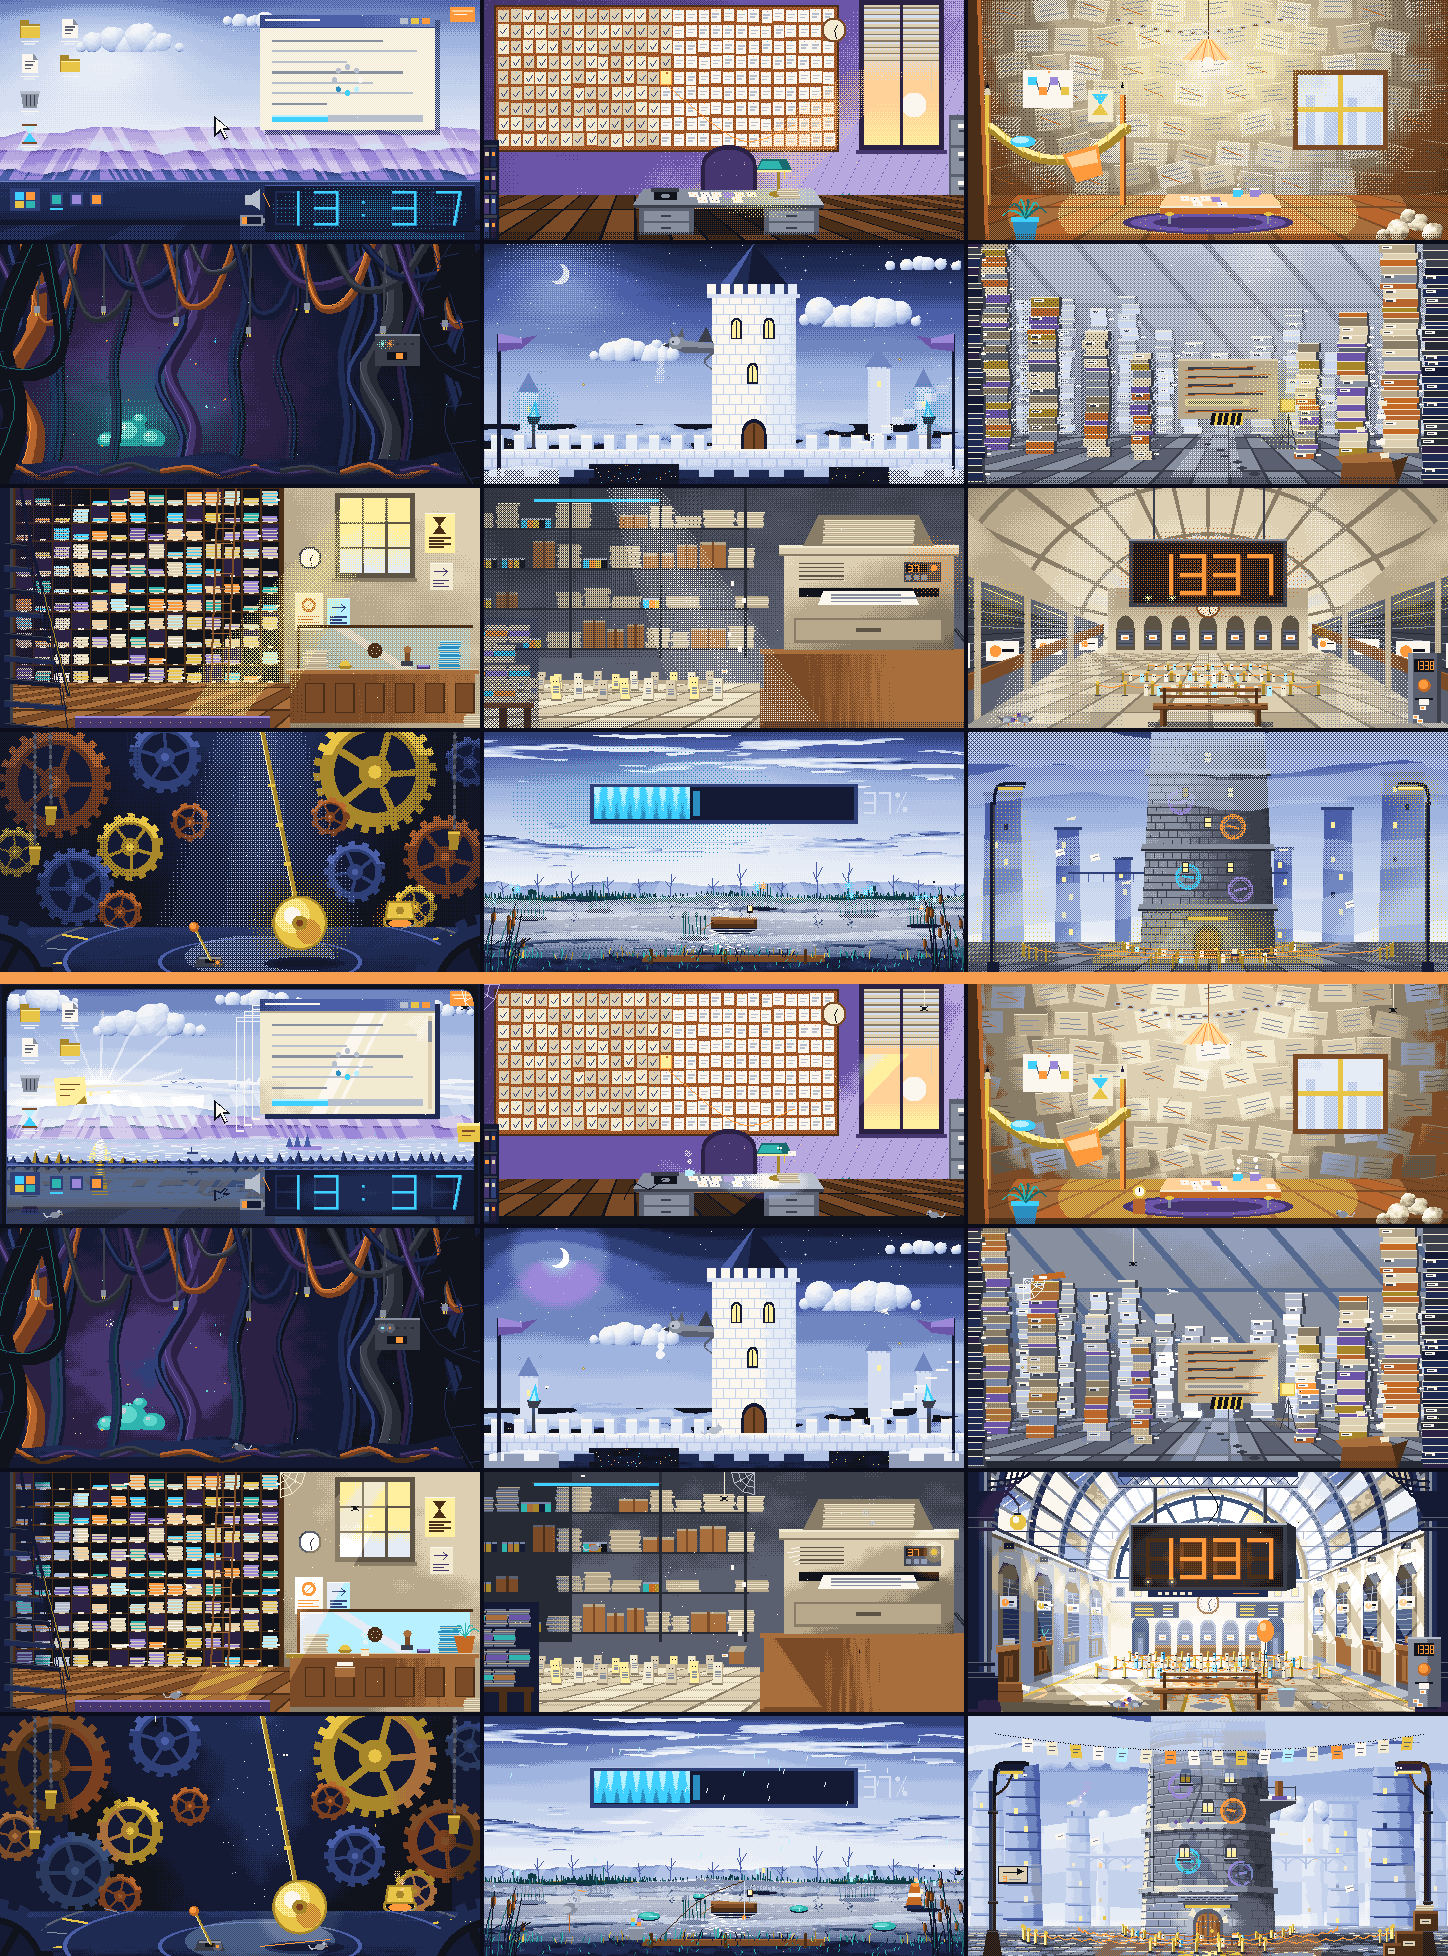
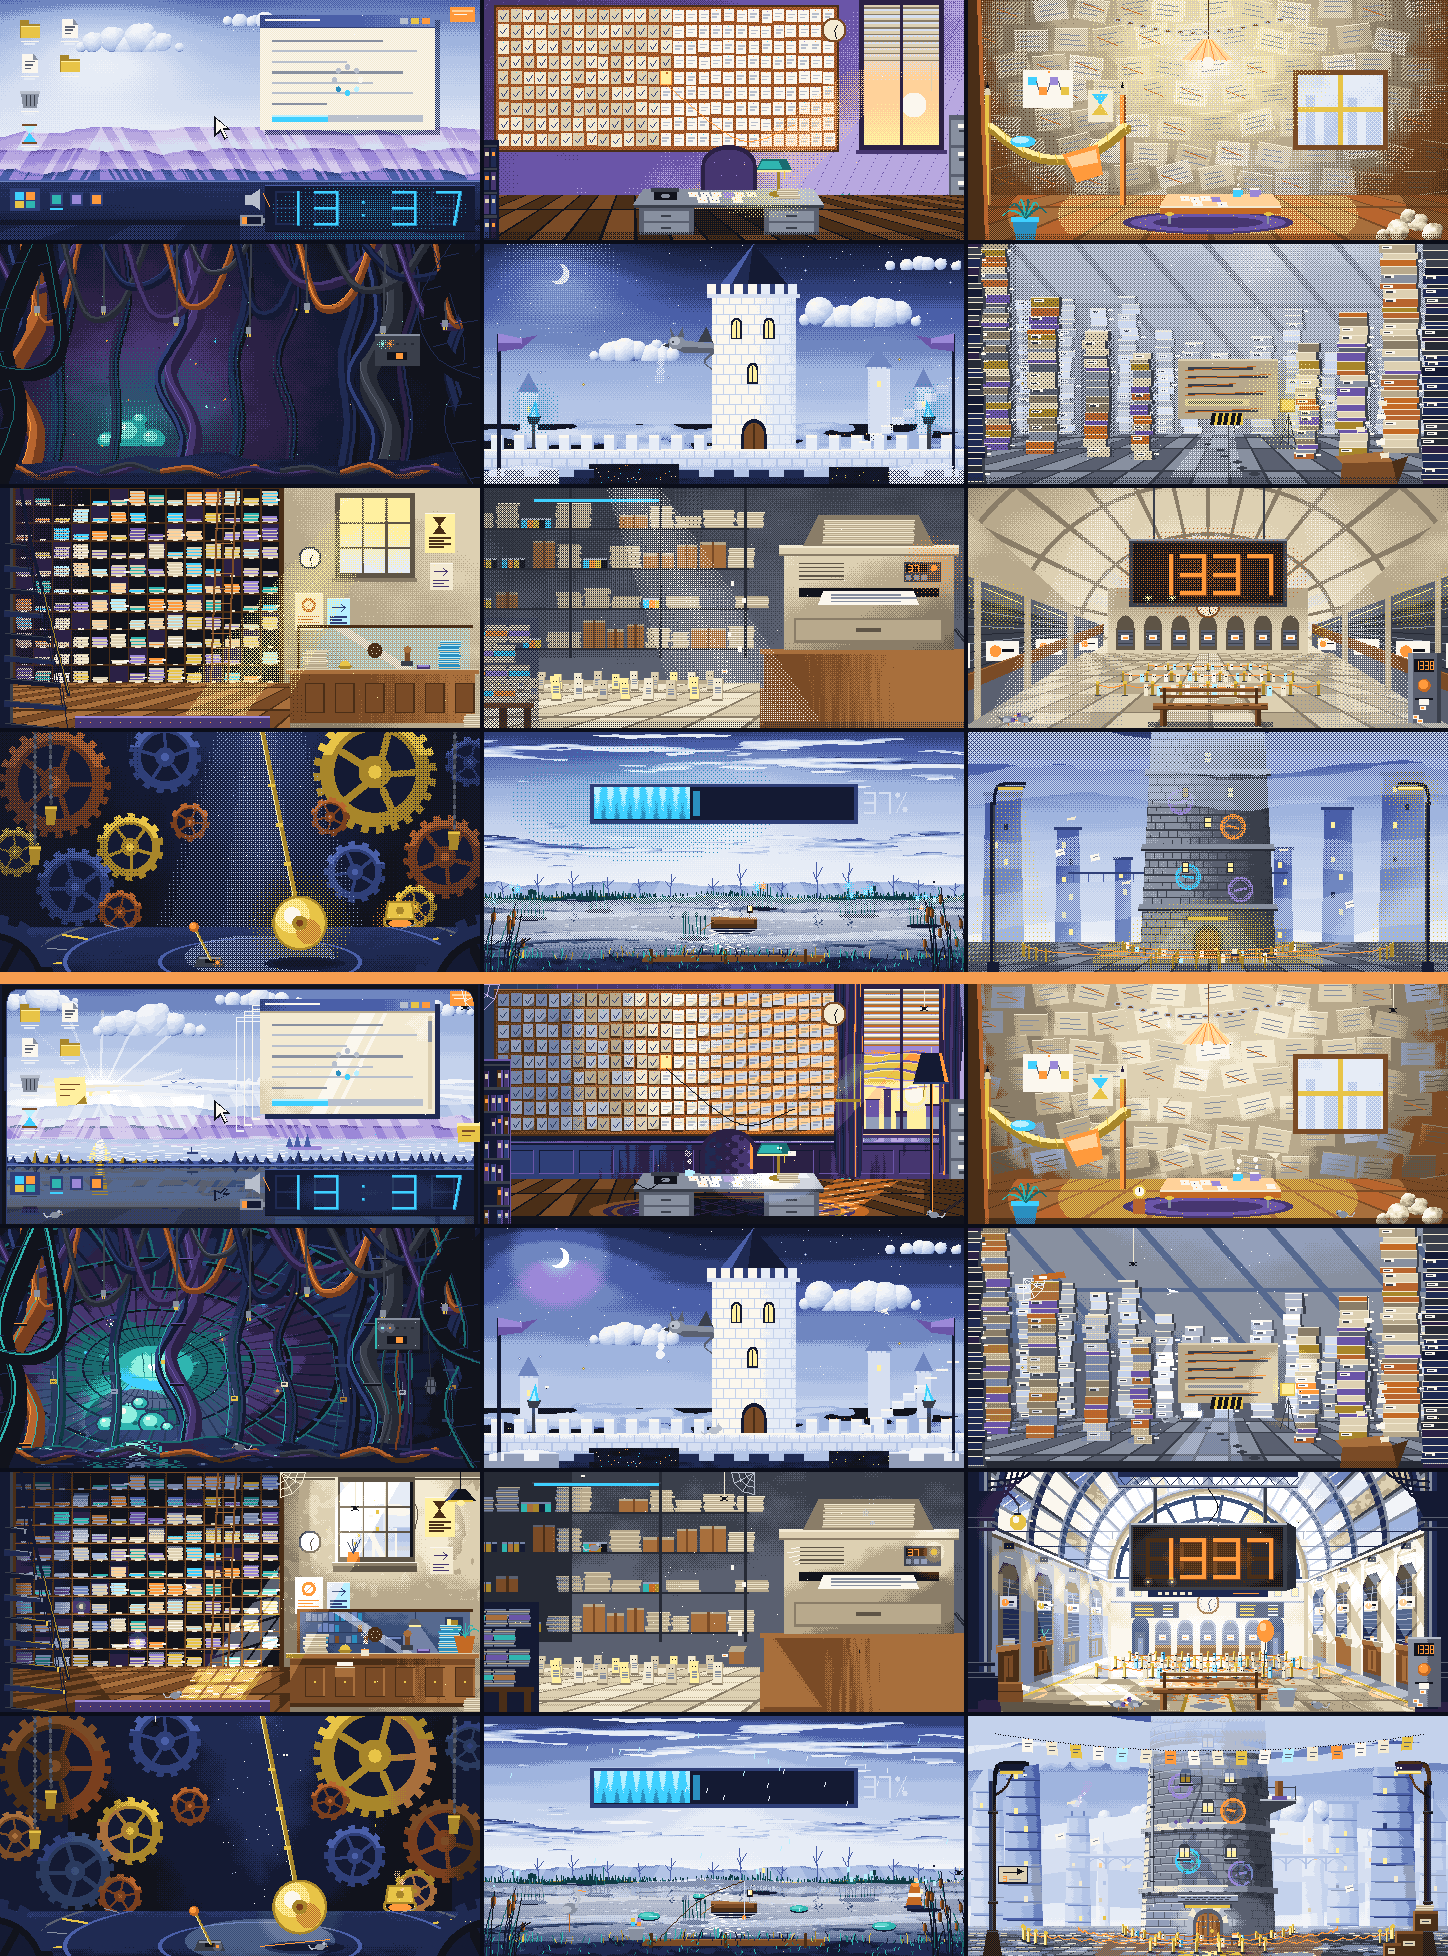
Générateur des décors : ne repeindre que les lieux touchés, référence toujours complète
- decors_hd.py <campagne> <lieu> [<lieu>…] repeint ces lieux et relit l'empreinte des autres dans assets/decors
- Vérifié : même référence qu'une régénération complète
- Références et avant / après du groupe 2 de La Grande Panne

Changed region(s): [[0.0, 0.6237, 0.3419, 0.8732], [0.3108, 0.499, 0.6837, 0.6237]]

diff --git a/outils/sprites/decors_hd.py b/outils/sprites/decors_hd.py
@@ -1,7 +1,11 @@
 """Décors haute définition des campagnes (480 × 240, 2 px d'écran par pixel) : registre, format « décor compact », référence, planches.
 
     py outils/sprites/decors_hd.py                 tout écrire : assets/decors/, la référence, les planches
-    py outils/sprites/decors_hd.py prologue mare   un seul décor (la référence n'est alors pas réécrite)
+    py outils/sprites/decors_hd.py prologue mare   un seul décor (ou plusieurs : prologue mare seuil)
+    py outils/sprites/decors_hd.py prologue        une campagne
+
+La référence est réécrite à chaque fois, en entier : les décors qu'on ne repeint pas sont relus dans assets/decors/
+(leur empreinte se recalcule en une seconde). Après un changement, repeindre seulement les décors touchés suffit.
 
 Les lieux sont peints dans decors_hd_<campagne>.py avec les briques de paysage.py (docs/PEINTURE.md) ; chacun se
 déclare par @decor(campagne, id, soleil, tons). Ce module les joue image par image et écrit :
@@ -298,10 +302,17 @@ def planche_campagnes(premieres):
 def main():
     charger()
     args = sys.argv[1:]
-    choisis = [s for s in sorted(DECORS) if not args or (LIEUX[s][0] == args[0] and (len(args) < 2 or LIEUX[s][1] == args[1]))]
+    choisis = [s for s in sorted(DECORS) if not args or (LIEUX[s][0] == args[0] and (len(args) < 2 or LIEUX[s][1] in args[1:]))]
+    if args and not choisis:
+        sys.exit("Aucun décor ne correspond à : " + " ".join(args))
     ref = []
     premieres = {}
-    for sid in choisis:
+    for sid in sorted(DECORS):
+        fichier = os.path.join(SORTIE, sid + ".txt")
+        if sid not in choisis and os.path.exists(fichier):   # pas repeint : son empreinte se relit dans le fichier
+            with open(fichier, encoding="utf-8") as g:
+                ref += lignes_reference(g.read())
+            continue
         ims, texte = ecrire(sid)
         premieres[sid] = ims[0]
         ref += lignes_reference(texte)
@@ -310,13 +321,12 @@ def main():
         print("%s : %d Ko, plans : %s" % (sid, len(texte.encode("utf-8")) // 1024, ", ".join(
             "%s %d (%s)" % (q["nom"], q["profondeur"], "fixe" if len(q["images"]) == 1 else "%d images" % len(q["images"]))
             for q in d["plans"])))
-    planche_campagnes(premieres)
-    if not args:
-        with open(REFERENCE, "w", encoding="utf-8", newline="\n") as f:
-            f.write("# Décors haute définition (decors_hd.py, docs/SCENES-HD.md) : une ligne par plan,\n"
-                    "# id plan largeur hauteur images duree, puis l'empreinte FNV-1a de chaque image décodée (pixels ARGB\n"
-                    "# 0xFFrrggbb, transparent 0x00000000, rangée par rangée). Lu par les tests C# et Java.\n")
-            f.write("\n".join(ref) + "\n")
+    planche_campagnes(premieres)                       # une planche de campagne n'est refaite que si tous ses lieux sont repeints
+    with open(REFERENCE, "w", encoding="utf-8", newline="\n") as f:
+        f.write("# Décors haute définition (decors_hd.py, docs/SCENES-HD.md) : une ligne par plan,\n"
+                "# id plan largeur hauteur images duree, puis l'empreinte FNV-1a de chaque image décodée (pixels ARGB\n"
+                "# 0xFFrrggbb, transparent 0x00000000, rangée par rangée). Lu par les tests C# et Java.\n")
+        f.write("\n".join(ref) + "\n")
 
 
 if __name__ == "__main__":

diff --git a/docs/PEINTURE.md b/docs/PEINTURE.md
@@ -140,6 +140,11 @@ la rampe, et les paliers se mélangent en damier ordonné sur la part `trame`. `
 plus ; le premier doit couvrir tout le cadre). Un plan qui ne bouge pas n'est écrit qu'une fois : mettre ce qui
 bouge dans peu de plans allège le fichier et le travail du moteur.
 
+**Ne repeindre que ce qui change.** `py outils/sprites/decors_hd.py <campagne> <lieu> [<lieu>…]` repeint ces lieux
+(une à deux minutes chacun) et réécrit quand même toute la référence : les autres décors sont relus dans
+`assets/decors/`. Avant une PR : fusionner `main`, puis relancer cette commande sur les lieux touchés. Le lancement
+sans argument repeint tout (25 minutes) et ne sert plus qu'après un changement d'une brique de `paysage.py`.
+
 **Après tout changement d'un décor**, régénérer aussi la référence du Théâtre, qui porte l'empreinte de chaque plan :
 `py outils/sprites/theatre_hd.py` (réécrit `outils/sprites/theatre-hd-reference.txt` ; les tests du PC et du
 téléphone la comparent aux fichiers de `assets/decors/`). Sans cela, la CI échoue.

diff --git a/docs/ETAT.md b/docs/ETAT.md
@@ -27,7 +27,8 @@ Dernière mise à jour : 28 novembre 2026.
   Seconde passe faite sur les trois grandes campagnes (matière au lieu du damier, douze détails vivants au moins par
   décor, les deux pics de Petit Nuage en fil du voyage) ; le prologue n'a pas eu de seconde passe.
   Troisième passe « en profondeur » en cours sur La Grande Panne (méthode dans docs/PEINTURE.md, étalon : la mare) :
-  faits, le bureau 13 h 37, le hall des Pas Comptés, le pied de la Tour (3 sur 12) ; avant / après en taille réelle
+  faits, le bureau 13 h 37, le hall des Pas Comptés, le pied de la Tour, les étages de la Tour, le bureau de la
+  Planificatrice, la Caverne des câbles (6 sur 12) ; avant / après en taille réelle
   dans `docs/maquettes/paysages/grande-panne/profondeur/`.
 - **Personnages haute définition** (docs/SPRITES.md) : les 29 personnages en pied des trois campagnes sont redessinés
   à l'unité 480 × 240 et exportés (`assets/sprites-hd/`, 69 fichiers, 438 Ko, format de docs/SCENES-HD.md, référence
